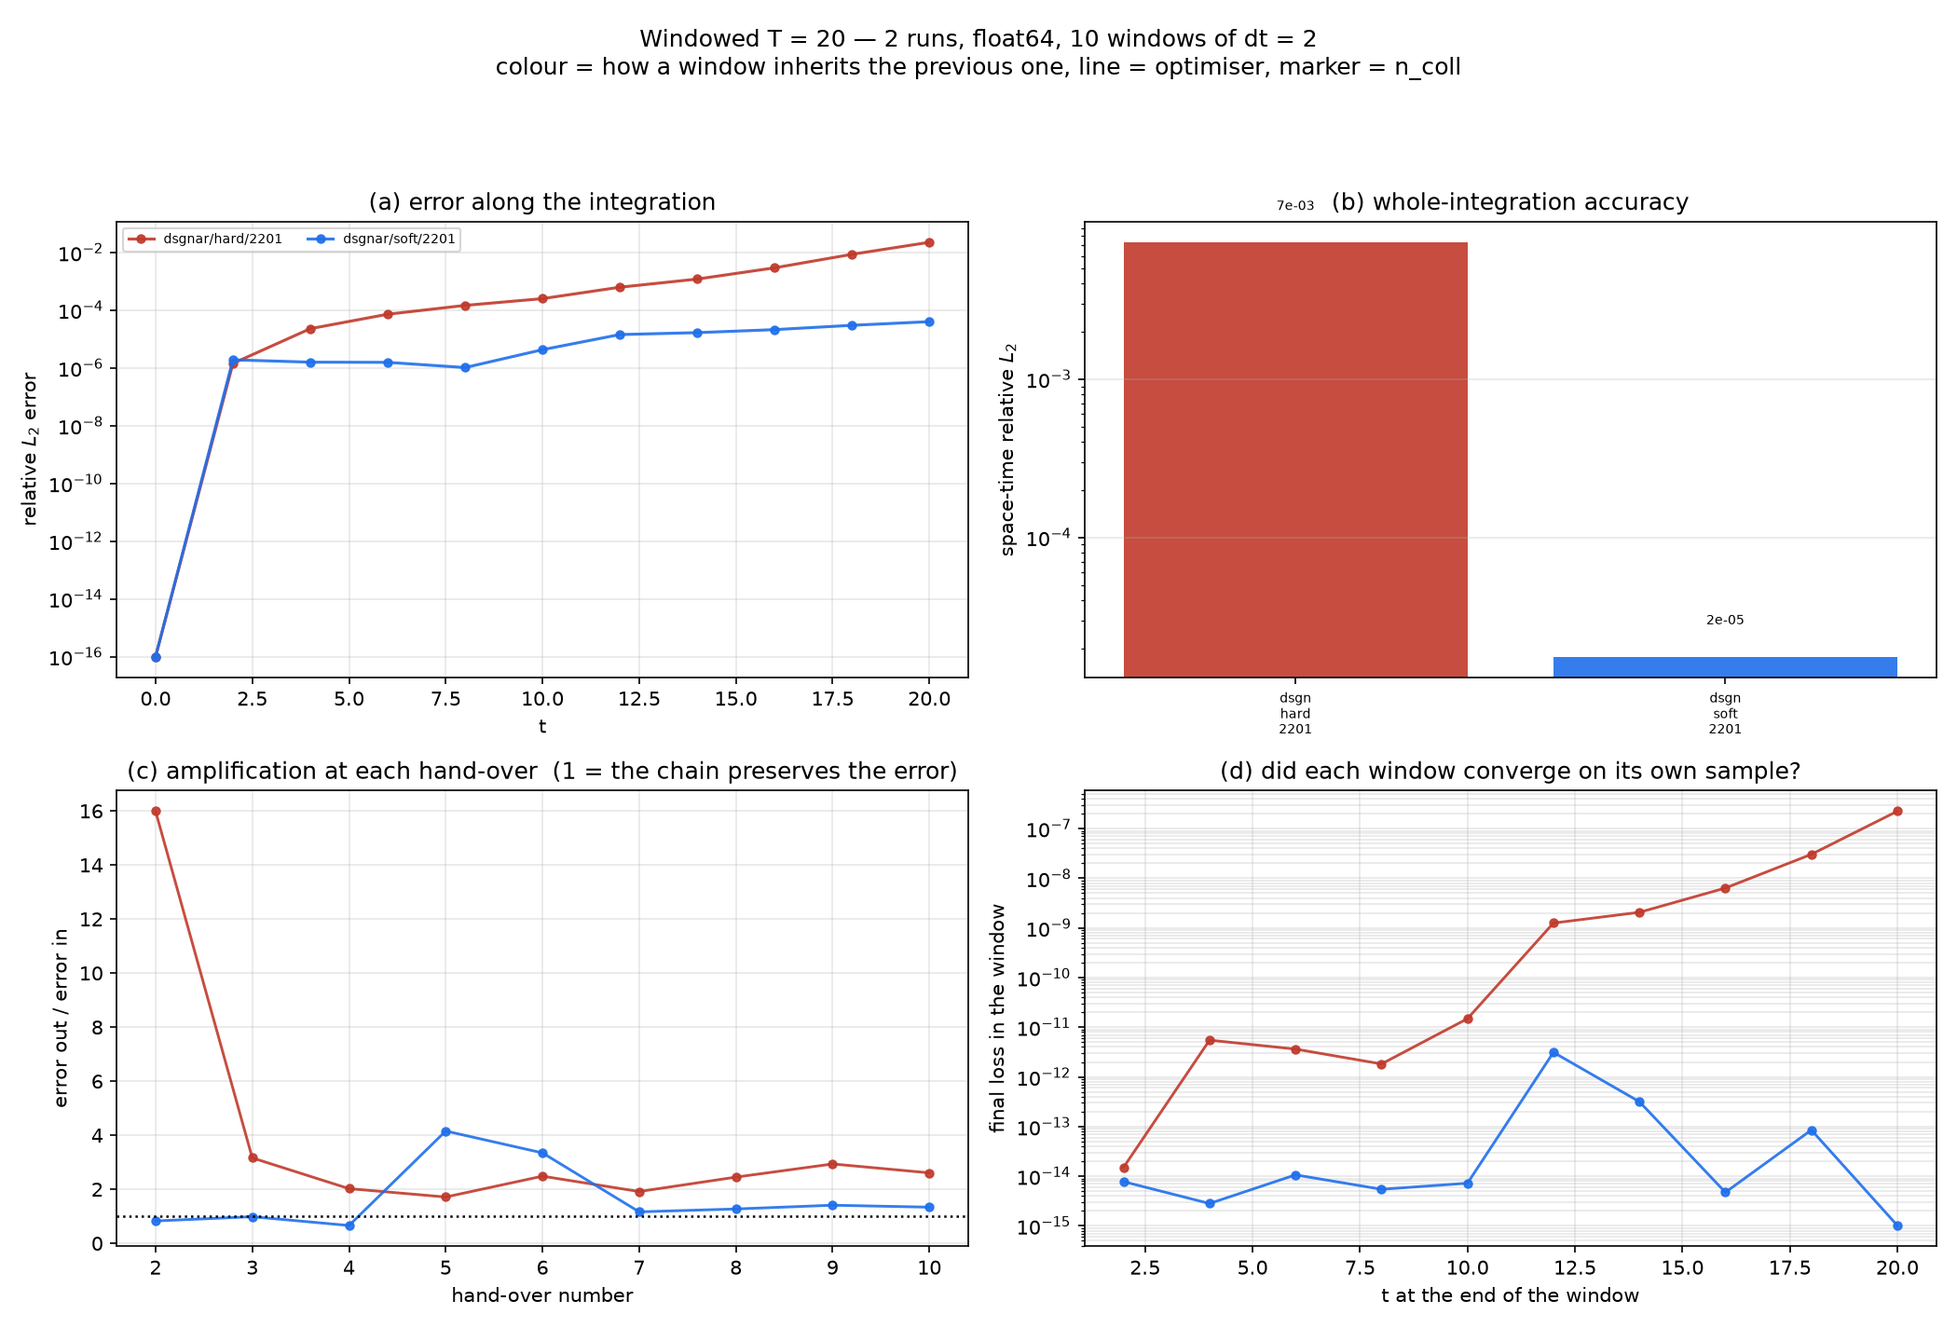
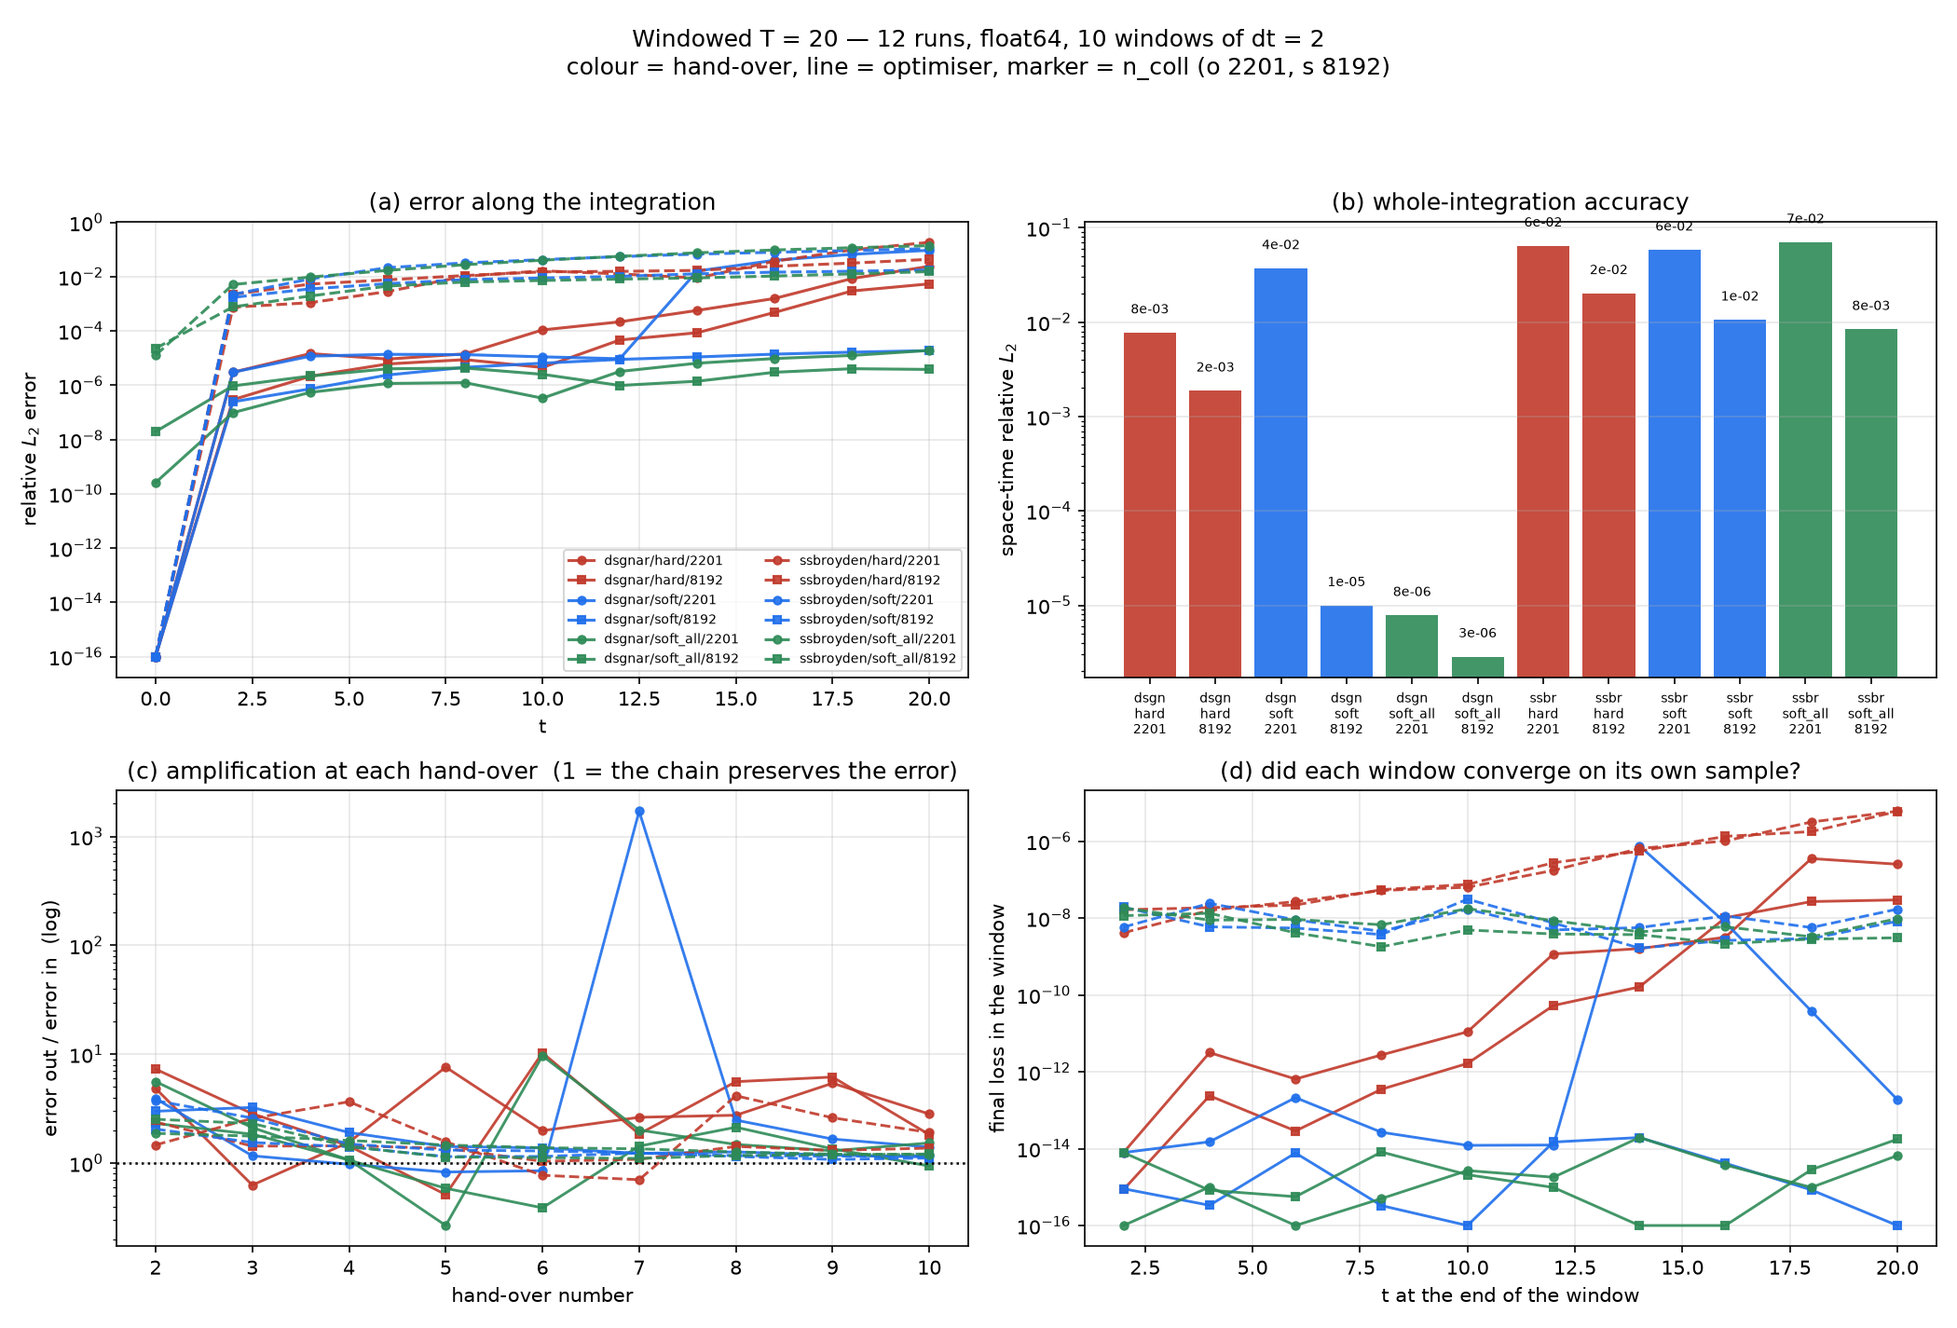
The batch result: soft_all wins, and more points help everywhere
All twelve runs finished, float64, 24,702 s (6.9 h) in total.  Space-time relative
L2, best in each column in bold:

    cell                    n_coll=2201     n_coll=8192
    dsgnar hard               7.746e-03       1.877e-03
    dsgnar soft               3.719e-02*      9.980e-06
    dsgnar soft_all          **7.834e-06**  **2.861e-06**
    ssbroyden hard            6.449e-02       2.020e-02
    ssbroyden soft            5.851e-02       1.061e-02
    ssbroyden soft_all        7.022e-02       8.410e-03

    * invalid: this is the run whose window 7 stalled before the retry fix; its
      8192 twin, 9.98e-06, is what the cell should look like.

Four things fall out of it.

**Softening the first window helps, which was the experiment worth running.**
`soft_all` is the best hand-over at both sizes, and at n_coll=8192 it is 3.5x
better than `soft` and 660x better than `hard`.  At 2201 it turns the earlier
hand-run's 1.77e-05 into 7.83e-06.  The first window seeds every error that
follows, so letting the optimiser trade the initial condition against the residual
there -- instead of pinning it -- is worth more than the same freedom further
along the chain.

**More collocation points help every single cell**, by 2x to 8x, which is what the
sample-independence measurement predicted: at n_coll = n_params DSGNAR's parameter
change per redraw was 1e-04 and falling, so the answer is still partly
sample-determined and more points pin it down.
[…]

diff --git a/Evolution_try/scripts/report_batch.py b/Evolution_try/scripts/report_batch.py
@@ -33,7 +33,14 @@ IC_COLOR = {"hard": "#c0392b", "soft": "#1f6feb", "soft_all": "#2e8b57"}
 IC_LABEL = {"hard": "hard hand-over", "soft": "soft (window 1 hard)",
             "soft_all": "soft, first window too"}
 OPT_STYLE = {"dsgnar": "-", "ssbroyden": "--", "jaxopt_broyden": ":"}
-OPT_MARK = {"dsgnar": "o", "ssbroyden": "s", "jaxopt_broyden": "^"}
+# marker encodes n_coll, NOT the optimiser: with two collocation sizes the same
+# (optimiser, hand-over) pair occurs twice, and encoding both in the same channel
+# draws them as one indistinguishable line.
+NCOLL_MARK = {2201: "o", 8192: "s"}
+
+
+def mark(run):
+    return NCOLL_MARK.get(run["n_coll"], "^")
 
 
 def load_run(path: str) -> Optional[Dict]:
@@ -95,8 +102,8 @@ def main(argv: List[str]) -> int:
 
     fig, ax = plt.subplots(2, 2, figsize=(14, 9.5))
     fig.suptitle(f"Windowed T = 20 — {len(runs)} runs, float64, 10 windows of dt = 2\n"
-                 f"colour = how a window inherits the previous one, "
-                 f"line = optimiser, marker = n_coll", fontsize=12)
+                 f"colour = hand-over, line = optimiser, marker = n_coll (o 2201, s 8192)",
+                 fontsize=12)
 
     # (a) error along the integration
     a = ax[0, 0]
@@ -104,7 +111,7 @@ def main(argv: List[str]) -> int:
         if r["rel"] is None:
             continue
         a.semilogy(r["t"], np.maximum(r["rel"], 1e-16),
-                   marker=OPT_MARK.get(r["optimizer"], "o"), ls=OPT_STYLE.get(r["optimizer"], "-"),
+                   marker=mark(r), ls=OPT_STYLE.get(r["optimizer"], "-"),
                    color=IC_COLOR.get(r["window_ic"], "grey"), lw=1.5, ms=4, alpha=.9,
                    label=f"{r['optimizer']}/{r['window_ic']}/{r['n_coll']}")
     a.set_xlabel("t"); a.set_ylabel(r"relative $L_2$ error")
@@ -130,10 +137,13 @@ def main(argv: List[str]) -> int:
         amps = [w.get("amplification") for w in r["windows"]]
         amps = [x if (x and np.isfinite(x)) else np.nan for x in amps]
         a.plot(np.arange(1, len(amps) + 1), amps,
-               marker=OPT_MARK.get(r["optimizer"], "o"), ls=OPT_STYLE.get(r["optimizer"], "-"),
+               marker=mark(r), ls=OPT_STYLE.get(r["optimizer"], "-"),
                color=IC_COLOR.get(r["window_ic"], "grey"), lw=1.4, ms=4, alpha=.9)
     a.axhline(1.0, color="k", ls=":", lw=1.2)
-    a.set_xlabel("hand-over number"); a.set_ylabel("error out / error in")
+    # log scale: one stalled window reached x1709 and would flatten every other
+    # curve into the axis, hiding the question this panel exists to answer
+    a.set_yscale("log")
+    a.set_xlabel("hand-over number"); a.set_ylabel("error out / error in  (log)")
     a.set_title("(c) amplification at each hand-over  (1 = the chain preserves the error)")
     a.grid(alpha=.3)
 
@@ -142,7 +152,7 @@ def main(argv: List[str]) -> int:
     for r in runs:
         a.semilogy([w["t1"] for w in r["windows"]],
                    np.maximum([w["final_loss"] for w in r["windows"]], 1e-16),
-                   marker=OPT_MARK.get(r["optimizer"], "o"), ls=OPT_STYLE.get(r["optimizer"], "-"),
+                   marker=mark(r), ls=OPT_STYLE.get(r["optimizer"], "-"),
                    color=IC_COLOR.get(r["window_ic"], "grey"), lw=1.4, ms=4, alpha=.9)
     a.set_xlabel("t at the end of the window"); a.set_ylabel("final loss in the window")
     a.set_title("(d) did each window converge on its own sample?")

diff --git a/Evolution_try/BATCH_REPORT.md b/Evolution_try/BATCH_REPORT.md
@@ -1,33 +1,143 @@
 # Batch report: windowed T = 20
 
-2 runs, all float64, 10 windows of dt = 2.  Generated by `scripts/report_batch.py`.
+12 runs, all float64, 10 windows of dt = 2.  Generated by `scripts/report_batch.py`.
 
 | run | optimiser | hand-over | n_coll | space-time rel L2 | mean amplification | wall |
 |---|---|---|---|---|---|---|
-| `T20win_hard` | dsgnar | hard | 2201 | 7.305e-03 | 3.92 | 1043 s |
-| `T20win_soft` | dsgnar | soft | 2201 | 1.770e-05 | 1.68 | 1384 s |
+| `dsgnar_hard_nc2201` | dsgnar | hard | 2201 | 7.746e-03 | 3.37 | 2011 s |
+| `dsgnar_hard_nc8192` | dsgnar | hard | 8192 | 1.877e-03 | 4.21 | 6145 s |
+| `dsgnar_soft_nc2201` | dsgnar | soft | 2201 | 3.719e-02 | 191.34 | 2043 s |
+| `dsgnar_soft_nc8192` | dsgnar | soft | 8192 | 9.980e-06 | 1.75 | 3948 s |
+| `dsgnar_soft_all_nc2201` | dsgnar | soft_all | 2201 | 7.834e-06 | 2.79 | 4556 s |
+| `dsgnar_soft_all_nc8192` | dsgnar | soft_all | 8192 | 2.861e-06 | 1.34 | 3487 s |
+| `ssbroyden_hard_nc2201` | ssbroyden | hard | 2201 | 6.449e-02 | 2.16 | 339 s |
+| `ssbroyden_hard_nc8192` | ssbroyden | hard | 8192 | 2.020e-02 | 1.43 | 377 s |
+| `ssbroyden_soft_nc2201` | ssbroyden | soft | 2201 | 5.851e-02 | 1.69 | 348 s |
+| `ssbroyden_soft_nc8192` | ssbroyden | soft | 8192 | 1.061e-02 | 1.32 | 356 s |
+| `ssbroyden_soft_all_nc2201` | ssbroyden | soft_all | 2201 | 7.022e-02 | 1.46 | 326 s |
+| `ssbroyden_soft_all_nc8192` | ssbroyden | soft_all | 8192 | 8.410e-03 | 1.47 | 355 s |
 
 ## Per window
 
 | run | window | t | final loss | inherited rel L2 | window rel L2 | amplification | redraws |
 |---|---|---|---|---|---|---|---|
-| `T20win_hard` | 1 | [0, 2] | 1.51e-14 | 0.00e+00 | 9.85e-07 | xnan | 0 |
-| `T20win_hard` | 2 | [2, 4] | 5.49e-12 | 1.43e-06 | 1.33e-05 | x15.99 | 0 |
-| `T20win_hard` | 3 | [4, 6] | 3.63e-12 | 2.29e-05 | 4.91e-05 | x3.16 | 0 |
-| `T20win_hard` | 4 | [6, 8] | 1.82e-12 | 7.23e-05 | 1.14e-04 | x2.02 | 0 |
-| `T20win_hard` | 5 | [8, 10] | 1.49e-11 | 1.46e-04 | 1.98e-04 | x1.71 | 0 |
-| `T20win_hard` | 6 | [10, 12] | 1.25e-09 | 2.51e-04 | 3.18e-04 | x2.49 | 0 |
-| `T20win_hard` | 7 | [12, 14] | 2.06e-09 | 6.23e-04 | 9.06e-04 | x1.92 | 0 |
-| `T20win_hard` | 8 | [14, 16] | 6.34e-09 | 1.19e-03 | 2.04e-03 | x2.45 | 0 |
-| `T20win_hard` | 9 | [16, 18] | 3.03e-08 | 2.93e-03 | 5.77e-03 | x2.94 | 0 |
-| `T20win_hard` | 10 | [18, 20] | 2.23e-07 | 8.59e-03 | 1.64e-02 | x2.61 | 0 |
-| `T20win_soft` | 1 | [0, 2] | 7.78e-15 | 0.00e+00 | 1.13e-06 | xnan | 0 |
-| `T20win_soft` | 2 | [2, 4] | 2.82e-15 | 1.91e-06 | 1.77e-06 | x0.83 | 0 |
-| `T20win_soft` | 3 | [4, 6] | 1.07e-14 | 1.58e-06 | 1.12e-06 | x0.99 | 0 |
-| `T20win_soft` | 4 | [6, 8] | 5.46e-15 | 1.56e-06 | 1.38e-06 | x0.66 | 0 |
-| `T20win_soft` | 5 | [8, 10] | 7.24e-15 | 1.03e-06 | 2.85e-06 | x4.16 | 0 |
-| `T20win_soft` | 6 | [10, 12] | 3.12e-12 | 4.27e-06 | 1.23e-05 | x3.35 | 0 |
-| `T20win_soft` | 7 | [12, 14] | 3.16e-13 | 1.43e-05 | 1.48e-05 | x1.17 | 0 |
-| `T20win_soft` | 8 | [14, 16] | 4.74e-15 | 1.66e-05 | 1.85e-05 | x1.27 | 0 |
-| `T20win_soft` | 9 | [16, 18] | 8.52e-14 | 2.12e-05 | 2.52e-05 | x1.41 | 0 |
-| `T20win_soft` | 10 | [18, 20] | 1.02e-15 | 2.99e-05 | 3.51e-05 | x1.34 | 0 |
+| `dsgnar_hard_nc2201` | 1 | [0, 2] | 7.96e-15 | 0.00e+00 | 2.02e-06 | xnan | 4 |
+| `dsgnar_hard_nc2201` | 2 | [2, 4] | 3.16e-12 | 3.02e-06 | 8.68e-06 | x4.86 | 4 |
+| `dsgnar_hard_nc2201` | 3 | [4, 6] | 6.48e-13 | 1.47e-05 | 1.01e-05 | x0.63 | 4 |
+| `dsgnar_hard_nc2201` | 4 | [6, 8] | 2.75e-12 | 9.21e-06 | 1.06e-05 | x1.56 | 4 |
+| `dsgnar_hard_nc2201` | 5 | [8, 10] | 1.10e-11 | 1.43e-05 | 6.52e-05 | x7.62 | 4 |
+| `dsgnar_hard_nc2201` | 6 | [10, 12] | 1.17e-09 | 1.09e-04 | 1.45e-04 | x1.99 | 4 |
+| `dsgnar_hard_nc2201` | 7 | [12, 14] | 1.61e-09 | 2.17e-04 | 4.65e-04 | x2.64 | 4 |
+| `dsgnar_hard_nc2201` | 8 | [14, 16] | 3.17e-09 | 5.72e-04 | 1.17e-03 | x2.76 | 4 |
+| `dsgnar_hard_nc2201` | 9 | [16, 18] | 3.54e-07 | 1.58e-03 | 6.00e-03 | x5.42 | 4 |
+| `dsgnar_hard_nc2201` | 10 | [18, 20] | 2.52e-07 | 8.55e-03 | 1.75e-02 | x2.83 | 4 |
+| `dsgnar_hard_nc8192` | 1 | [0, 2] | 8.63e-16 | 0.00e+00 | 1.90e-07 | xnan | 4 |
+| `dsgnar_hard_nc8192` | 2 | [2, 4] | 2.38e-13 | 2.93e-07 | 1.66e-06 | x7.31 | 4 |
+| `dsgnar_hard_nc8192` | 3 | [4, 6] | 2.89e-14 | 2.14e-06 | 4.42e-06 | x2.85 | 4 |
+| `dsgnar_hard_nc8192` | 4 | [6, 8] | 3.51e-13 | 6.10e-06 | 7.96e-06 | x1.44 | 4 |
+| `dsgnar_hard_nc8192` | 5 | [8, 10] | 1.65e-12 | 8.78e-06 | 6.89e-06 | x0.51 | 4 |
+| `dsgnar_hard_nc8192` | 6 | [10, 12] | 5.31e-11 | 4.51e-06 | 2.71e-05 | x10.31 | 4 |
+| `dsgnar_hard_nc8192` | 7 | [12, 14] | 1.61e-10 | 4.65e-05 | 6.48e-05 | x1.85 | 4 |
+| `dsgnar_hard_nc8192` | 8 | [14, 16] | 1.02e-08 | 8.61e-05 | 3.28e-04 | x5.60 | 4 |
+| `dsgnar_hard_nc8192` | 9 | [16, 18] | 2.69e-08 | 4.82e-04 | 1.93e-03 | x6.18 | 4 |
+| `dsgnar_hard_nc8192` | 10 | [18, 20] | 2.97e-08 | 2.98e-03 | 4.64e-03 | x1.83 | 4 |
+| `dsgnar_soft_nc2201` | 1 | [0, 2] | 7.90e-15 | 0.00e+00 | 2.01e-06 | xnan | 4 |
+| `dsgnar_soft_nc2201` | 2 | [2, 4] | 1.51e-14 | 3.01e-06 | 7.77e-06 | x3.92 | 4 |
+| `dsgnar_soft_nc2201` | 3 | [4, 6] | 2.13e-13 | 1.18e-05 | 1.26e-05 | x1.17 | 4 |
+| `dsgnar_soft_nc2201` | 4 | [6, 8] | 2.67e-14 | 1.38e-05 | 1.42e-05 | x0.98 | 4 |
+| `dsgnar_soft_nc2201` | 5 | [8, 10] | 1.22e-14 | 1.34e-05 | 1.23e-05 | x0.83 | 4 |
+| `dsgnar_soft_nc2201` | 6 | [10, 12] | 1.24e-14 | 1.11e-05 | 1.02e-05 | x0.85 | 4 |
+| `dsgnar_soft_nc2201` | 7 | [12, 14] | 7.58e-07 | 9.48e-06 | 1.03e-02 | x1708.73 | 4 |
+| `dsgnar_soft_nc2201` | 8 | [14, 16] | 7.61e-09 | 1.62e-02 | 3.01e-02 | x2.48 | 4 |
+| `dsgnar_soft_nc2201` | 9 | [16, 18] | 3.80e-11 | 4.02e-02 | 5.55e-02 | x1.66 | 4 |
+| `dsgnar_soft_nc2201` | 10 | [18, 20] | 1.89e-13 | 6.69e-02 | 8.23e-02 | x1.41 | 4 |
+| `dsgnar_soft_nc8192` | 1 | [0, 2] | 9.05e-16 | 0.00e+00 | 1.31e-07 | xnan | 4 |
+| `dsgnar_soft_nc8192` | 2 | [2, 4] | 3.36e-16 | 2.46e-07 | 5.33e-07 | x3.00 | 4 |
+| `dsgnar_soft_nc8192` | 3 | [4, 6] | 7.70e-15 | 7.36e-07 | 1.61e-06 | x3.25 | 4 |
+| `dsgnar_soft_nc8192` | 4 | [6, 8] | 3.30e-16 | 2.39e-06 | 3.69e-06 | x1.91 | 4 |
+| `dsgnar_soft_nc8192` | 5 | [8, 10] | 2.25e-17 | 4.57e-06 | 5.64e-06 | x1.42 | 4 |
+| `dsgnar_soft_nc8192` | 6 | [10, 12] | 1.48e-14 | 6.50e-06 | 8.00e-06 | x1.38 | 4 |
+| `dsgnar_soft_nc8192` | 7 | [12, 14] | 1.95e-14 | 8.96e-06 | 9.91e-06 | x1.23 | 4 |
+| `dsgnar_soft_nc8192` | 8 | [14, 16] | 4.17e-15 | 1.10e-05 | 1.27e-05 | x1.27 | 4 |
+| `dsgnar_soft_nc8192` | 9 | [16, 18] | 8.42e-16 | 1.40e-05 | 1.54e-05 | x1.18 | 4 |
+| `dsgnar_soft_nc8192` | 10 | [18, 20] | 3.92e-17 | 1.66e-05 | 1.78e-05 | x1.14 | 4 |
+| `dsgnar_soft_all_nc2201` | 1 | [0, 2] | 2.37e-18 | 0.00e+00 | 5.62e-08 | xnan | 4 |
+| `dsgnar_soft_all_nc2201` | 2 | [2, 4] | 1.01e-15 | 9.78e-08 | 3.48e-07 | x5.61 | 4 |
+| `dsgnar_soft_all_nc2201` | 3 | [4, 6] | 9.52e-17 | 5.49e-07 | 9.32e-07 | x2.12 | 4 |
+| `dsgnar_soft_all_nc2201` | 4 | [6, 8] | 5.03e-16 | 1.16e-06 | 1.20e-06 | x1.07 | 4 |
+| `dsgnar_soft_all_nc2201` | 5 | [8, 10] | 2.69e-15 | 1.25e-06 | 8.32e-07 | x0.27 | 4 |
+| `dsgnar_soft_all_nc2201` | 6 | [10, 12] | 1.80e-15 | 3.33e-07 | 2.01e-06 | x9.69 | 4 |
+| `dsgnar_soft_all_nc2201` | 7 | [12, 14] | 1.95e-14 | 3.23e-06 | 5.09e-06 | x2.01 | 4 |
+| `dsgnar_soft_all_nc2201` | 8 | [14, 16] | 3.76e-15 | 6.50e-06 | 8.37e-06 | x1.48 | 4 |
+| `dsgnar_soft_all_nc2201` | 9 | [16, 18] | 9.80e-16 | 9.65e-06 | 1.12e-05 | x1.30 | 4 |
+| `dsgnar_soft_all_nc2201` | 10 | [18, 20] | 6.60e-15 | 1.25e-05 | 1.62e-05 | x1.53 | 4 |
+| `dsgnar_soft_all_nc8192` | 1 | [0, 2] | 7.87e-15 | 0.00e+00 | 6.90e-07 | xnan | 4 |
+| `dsgnar_soft_all_nc8192` | 2 | [2, 4] | 8.26e-16 | 9.45e-07 | 1.59e-06 | x2.32 | 4 |
+| `dsgnar_soft_all_nc8192` | 3 | [4, 6] | 5.63e-16 | 2.19e-06 | 3.21e-06 | x1.85 | 4 |
+| `dsgnar_soft_all_nc8192` | 4 | [6, 8] | 8.17e-15 | 4.04e-06 | 4.45e-06 | x1.07 | 4 |
+| `dsgnar_soft_all_nc8192` | 5 | [8, 10] | 2.10e-15 | 4.30e-06 | 3.32e-06 | x0.59 | 4 |
+| `dsgnar_soft_all_nc8192` | 6 | [10, 12] | 9.78e-16 | 2.53e-06 | 1.68e-06 | x0.39 | 4 |
+| `dsgnar_soft_all_nc8192` | 7 | [12, 14] | 6.06e-17 | 9.82e-07 | 9.84e-07 | x1.43 | 4 |
+| `dsgnar_soft_all_nc8192` | 8 | [14, 16] | 3.85e-17 | 1.41e-06 | 2.29e-06 | x2.14 | 4 |
+| `dsgnar_soft_all_nc8192` | 9 | [16, 18] | 2.84e-15 | 3.01e-06 | 3.69e-06 | x1.35 | 4 |
+| `dsgnar_soft_all_nc8192` | 10 | [18, 20] | 1.76e-14 | 4.07e-06 | 4.04e-06 | x0.94 | 4 |
+| `ssbroyden_hard_nc2201` | 1 | [0, 2] | 4.14e-09 | 0.00e+00 | 4.56e-04 | xnan | 1 |
+| `ssbroyden_hard_nc2201` | 2 | [2, 4] | 1.59e-08 | 7.52e-04 | 1.01e-03 | x1.47 | 1 |
+| `ssbroyden_hard_nc2201` | 3 | [4, 6] | 2.69e-08 | 1.10e-03 | 1.96e-03 | x2.58 | 1 |
+| `ssbroyden_hard_nc2201` | 4 | [6, 8] | 5.23e-08 | 2.85e-03 | 6.79e-03 | x3.67 | 1 |
+| `ssbroyden_hard_nc2201` | 5 | [8, 10] | 6.33e-08 | 1.04e-02 | 1.38e-02 | x1.57 | 1 |
+| `ssbroyden_hard_nc2201` | 6 | [10, 12] | 1.75e-07 | 1.64e-02 | 1.40e-02 | x0.77 | 1 |
+| `ssbroyden_hard_nc2201` | 7 | [12, 14] | 6.47e-07 | 1.27e-02 | 9.99e-03 | x0.70 | 1 |
+| `ssbroyden_hard_nc2201` | 8 | [14, 16] | 1.02e-06 | 8.94e-03 | 2.61e-02 | x4.16 | 1 |
+| `ssbroyden_hard_nc2201` | 9 | [16, 18] | 3.16e-06 | 3.71e-02 | 6.66e-02 | x2.61 | 1 |
+| `ssbroyden_hard_nc2201` | 10 | [18, 20] | 6.03e-06 | 9.70e-02 | 1.43e-01 | x1.91 | 1 |
+| `ssbroyden_hard_nc8192` | 1 | [0, 2] | 1.65e-08 | 0.00e+00 | 1.40e-03 | xnan | 1 |
+| `ssbroyden_hard_nc8192` | 2 | [2, 4] | 1.87e-08 | 2.24e-03 | 3.98e-03 | x2.39 | 1 |
+| `ssbroyden_hard_nc8192` | 3 | [4, 6] | 2.18e-08 | 5.35e-03 | 6.62e-03 | x1.43 | 1 |
+| `ssbroyden_hard_nc8192` | 4 | [6, 8] | 5.49e-08 | 7.67e-03 | 9.51e-03 | x1.44 | 1 |
+| `ssbroyden_hard_nc8192` | 5 | [8, 10] | 7.51e-08 | 1.11e-02 | 1.36e-02 | x1.37 | 1 |
+| `ssbroyden_hard_nc8192` | 6 | [10, 12] | 2.75e-07 | 1.51e-02 | 1.53e-02 | x1.04 | 1 |
+| `ssbroyden_hard_nc8192` | 7 | [12, 14] | 5.49e-07 | 1.57e-02 | 1.66e-02 | x1.08 | 1 |
+| `ssbroyden_hard_nc8192` | 8 | [14, 16] | 1.34e-06 | 1.71e-02 | 2.14e-02 | x1.42 | 1 |
+| `ssbroyden_hard_nc8192` | 9 | [16, 18] | 1.78e-06 | 2.43e-02 | 2.78e-02 | x1.31 | 1 |
+| `ssbroyden_hard_nc8192` | 10 | [18, 20] | 5.95e-06 | 3.18e-02 | 3.70e-02 | x1.37 | 1 |
+| `ssbroyden_soft_nc2201` | 1 | [0, 2] | 5.84e-09 | 0.00e+00 | 1.25e-03 | xnan | 1 |
+| `ssbroyden_soft_nc2201` | 2 | [2, 4] | 2.42e-08 | 2.21e-03 | 5.18e-03 | x3.75 | 1 |
+| `ssbroyden_soft_nc2201` | 3 | [4, 6] | 8.98e-09 | 8.30e-03 | 1.59e-02 | x2.60 | 1 |
+| `ssbroyden_soft_nc2201` | 4 | [6, 8] | 4.51e-09 | 2.16e-02 | 2.78e-02 | x1.50 | 1 |
+| `ssbroyden_soft_nc2201` | 5 | [8, 10] | 1.70e-08 | 3.23e-02 | 3.76e-02 | x1.32 | 1 |
+| `ssbroyden_soft_nc2201` | 6 | [10, 12] | 4.91e-09 | 4.25e-02 | 4.94e-02 | x1.29 | 1 |
+| `ssbroyden_soft_nc2201` | 7 | [12, 14] | 5.64e-09 | 5.50e-02 | 6.23e-02 | x1.24 | 1 |
+| `ssbroyden_soft_nc2201` | 8 | [14, 16] | 1.14e-08 | 6.81e-02 | 7.44e-02 | x1.17 | 1 |
+| `ssbroyden_soft_nc2201` | 9 | [16, 18] | 5.66e-09 | 7.98e-02 | 8.72e-02 | x1.16 | 1 |
+| `ssbroyden_soft_nc2201` | 10 | [18, 20] | 1.71e-08 | 9.26e-02 | 1.01e-01 | x1.17 | 1 |
+| `ssbroyden_soft_nc8192` | 1 | [0, 2] | 1.92e-08 | 0.00e+00 | 1.14e-03 | xnan | 1 |
+| `ssbroyden_soft_nc8192` | 2 | [2, 4] | 5.91e-09 | 1.73e-03 | 2.61e-03 | x2.06 | 1 |
+| `ssbroyden_soft_nc8192` | 3 | [4, 6] | 5.50e-09 | 3.57e-03 | 4.59e-03 | x1.55 | 1 |
+| `ssbroyden_soft_nc8192` | 4 | [6, 8] | 3.73e-09 | 5.52e-03 | 6.75e-03 | x1.41 | 1 |
+| `ssbroyden_soft_nc8192` | 5 | [8, 10] | 3.10e-08 | 7.81e-03 | 8.47e-03 | x1.15 | 1 |
+| `ssbroyden_soft_nc8192` | 6 | [10, 12] | 7.45e-09 | 8.96e-03 | 9.56e-03 | x1.15 | 1 |
+| `ssbroyden_soft_nc8192` | 7 | [12, 14] | 1.65e-09 | 1.03e-02 | 1.16e-02 | x1.24 | 1 |
+| `ssbroyden_soft_nc8192` | 8 | [14, 16] | 2.62e-09 | 1.28e-02 | 1.39e-02 | x1.15 | 1 |
+| `ssbroyden_soft_nc8192` | 9 | [16, 18] | 2.92e-09 | 1.47e-02 | 1.53e-02 | x1.08 | 1 |
+| `ssbroyden_soft_nc8192` | 10 | [18, 20] | 8.25e-09 | 1.59e-02 | 1.69e-02 | x1.11 | 1 |
+| `ssbroyden_soft_all_nc2201` | 1 | [0, 2] | 1.84e-08 | 0.00e+00 | 2.98e-03 | xnan | 1 |
+| `ssbroyden_soft_all_nc2201` | 2 | [2, 4] | 8.82e-09 | 5.16e-03 | 8.03e-03 | x1.88 | 1 |
+| `ssbroyden_soft_all_nc2201` | 3 | [4, 6] | 9.24e-09 | 9.68e-03 | 1.36e-02 | x1.77 | 1 |
+| `ssbroyden_soft_all_nc2201` | 4 | [6, 8] | 6.69e-09 | 1.71e-02 | 2.32e-02 | x1.61 | 1 |
+| `ssbroyden_soft_all_nc2201` | 5 | [8, 10] | 1.76e-08 | 2.77e-02 | 3.46e-02 | x1.47 | 1 |
+| `ssbroyden_soft_all_nc2201` | 6 | [10, 12] | 8.56e-09 | 4.06e-02 | 4.91e-02 | x1.38 | 1 |
+| `ssbroyden_soft_all_nc2201` | 7 | [12, 14] | 4.40e-09 | 5.63e-02 | 6.71e-02 | x1.35 | 1 |
+| `ssbroyden_soft_all_nc2201` | 8 | [14, 16] | 5.93e-09 | 7.62e-02 | 8.76e-02 | x1.27 | 1 |
+| `ssbroyden_soft_all_nc2201` | 9 | [16, 18] | 3.26e-09 | 9.65e-02 | 1.08e-01 | x1.21 | 1 |
+| `ssbroyden_soft_all_nc2201` | 10 | [18, 20] | 9.67e-09 | 1.17e-01 | 1.29e-01 | x1.20 | 1 |
+| `ssbroyden_soft_all_nc8192` | 1 | [0, 2] | 1.16e-08 | 0.00e+00 | 6.34e-04 | xnan | 1 |
+| `ssbroyden_soft_all_nc8192` | 2 | [2, 4] | 1.33e-08 | 7.71e-04 | 1.44e-03 | x2.53 | 1 |
+| `ssbroyden_soft_all_nc8192` | 3 | [4, 6] | 4.13e-09 | 1.95e-03 | 3.45e-03 | x2.31 | 1 |
+| `ssbroyden_soft_all_nc8192` | 4 | [6, 8] | 1.80e-09 | 4.51e-03 | 5.72e-03 | x1.42 | 1 |
+| `ssbroyden_soft_all_nc8192` | 5 | [8, 10] | 4.89e-09 | 6.39e-03 | 7.00e-03 | x1.14 | 1 |
+| `ssbroyden_soft_all_nc8192` | 6 | [10, 12] | 3.85e-09 | 7.28e-03 | 7.74e-03 | x1.12 | 1 |
+| `ssbroyden_soft_all_nc8192` | 7 | [12, 14] | 3.70e-09 | 8.17e-03 | 8.68e-03 | x1.10 | 1 |
+| `ssbroyden_soft_all_nc8192` | 8 | [14, 16] | 2.16e-09 | 9.03e-03 | 9.91e-03 | x1.17 | 1 |
+| `ssbroyden_soft_all_nc8192` | 9 | [16, 18] | 2.84e-09 | 1.06e-02 | 1.18e-02 | x1.20 | 1 |
+| `ssbroyden_soft_all_nc8192` | 10 | [18, 20] | 3.07e-09 | 1.27e-02 | 1.42e-02 | x1.21 | 1 |
